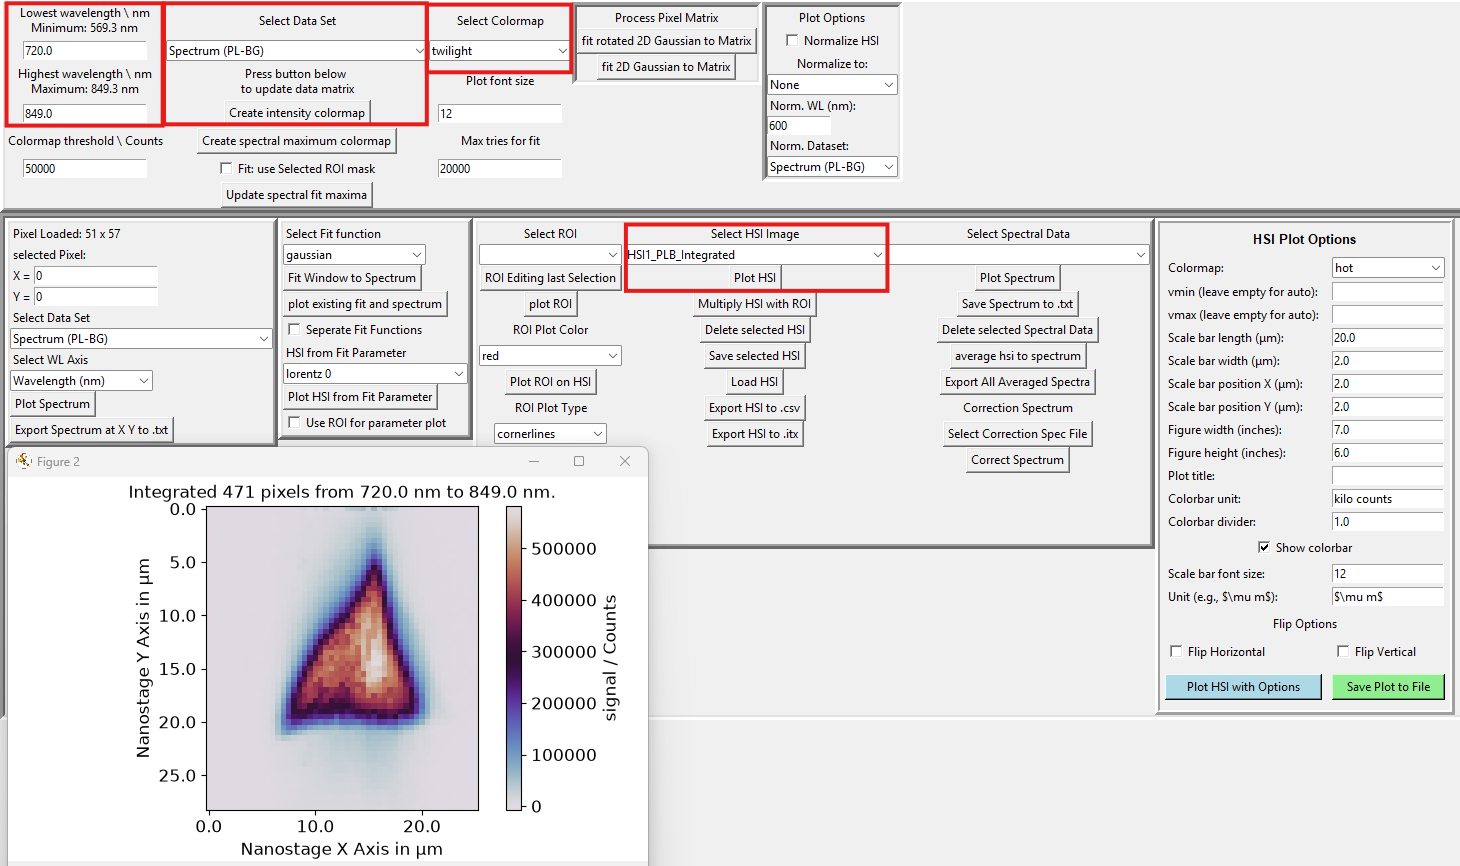
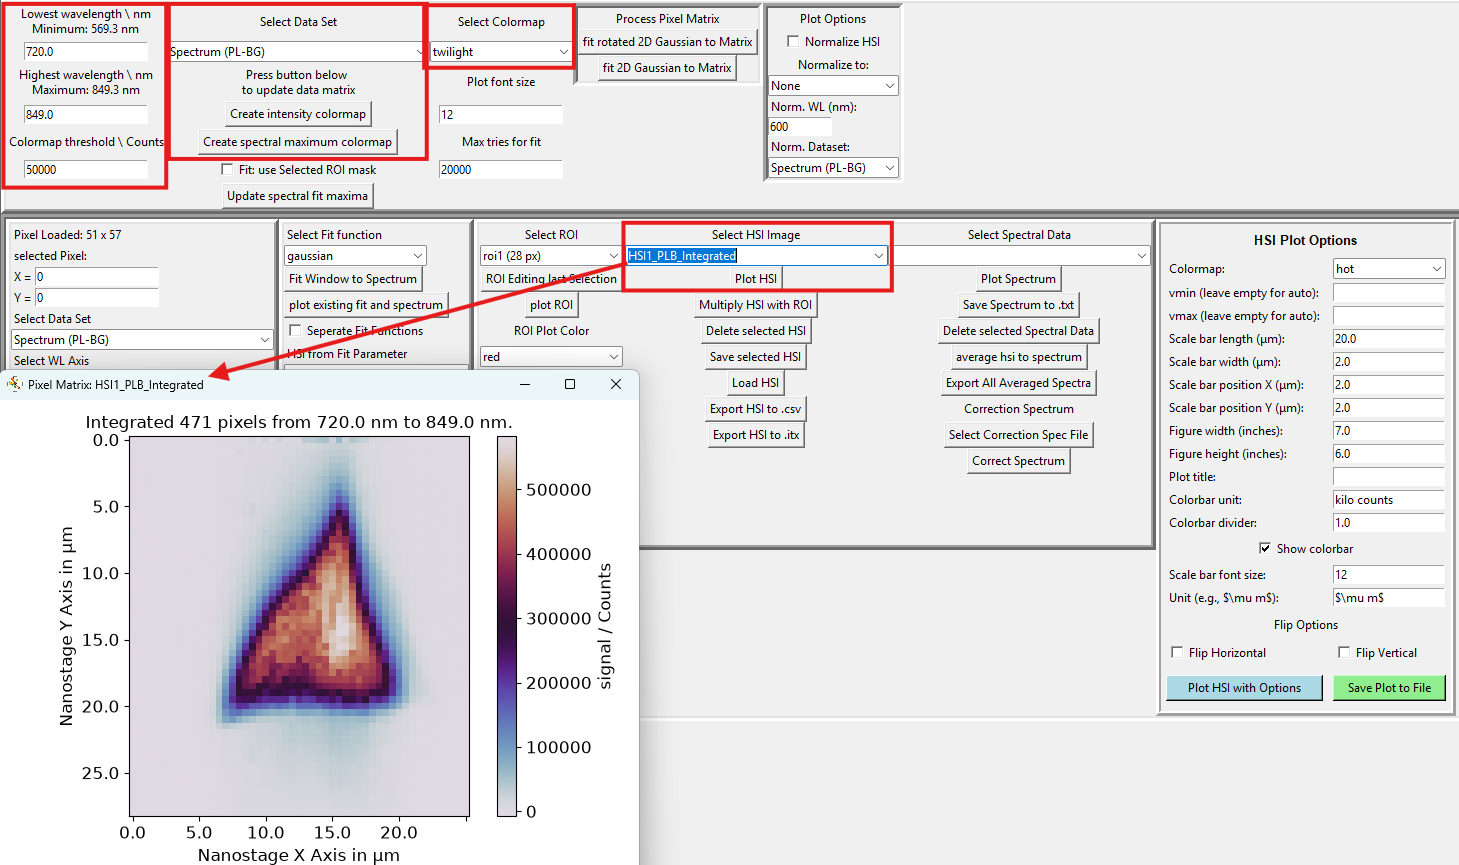
todo: finish documentation of Hyperspectra usage and add new images to the documentation

Changed region(s): [[0.0, 0.0, 1.0, 1.0]]

diff --git a/documentation/Software_Usage/Hyperspectra_documentation.md b/documentation/Software_Usage/Hyperspectra_documentation.md
@@ -21,14 +21,32 @@ The notebook is designed to be user-friendly and intuitive, allowing users to ea
 - "Lowest Wavelength" and "Highest Wavelength" are the minimum and maximum wavelengths of the hyperspectral data, respectively. These values are used to define the range of wavelengths that will be displayed in the hyperspectral image. It defines the limits for the integraton and for the Fit of the spectra. Each HSI gets the start and end wavelength entered on the creation into its metadata. 
 - "Colormap threshold \ Counts" uses the integration thresholds as fit thresholds. If a pixel-wise fit (all fits are pixel-wise) is below the threshold, no fit is carried out and the pixel obtains a np.nan value. Pixels with np.nan values are displayed white in the HSI. 
 
-
-![Create HSI column](ProjectImages/create_HSI_column.png)
+![Create HSI column](ProjectImages/Create_HSI_column.png)
 
 - "Select Data Set": The user can select the data set to be used for creating the hyperspectral image (HSI). The available data sets are listed in a dropdown menu, and the user can choose the desired data set for analysis. Available datasets are: the raw data, background, background subtracted data (default) and the derivatives calculated in the loading tab. 
 - "Create intensity colormap" creates a HSI by integration of the selected Data Set from Lowest Wavelength to Highest Wavelength. All available HSIs are listed in the "Select HSI Image combobox". 
 - "Create spectral maximum colormap" use the "Select Fit function" to fit each spectrum (respecting the Colormap threshold) and create a HSI of the spectral shift usually in nm. If the "Fit: use Selected ROI mask is True, the fit is only carried out for pixels within the selected ROI mask. If the "Fit: use Selected ROI mask is False, the fit is carried out for all pixels in the HSI. The resulting HSI will contain the fitted parameter values for each pixel, which can be used for further analysis or visualization. 
 Note: this function does only update the fitparameters and displays them afterwards. If a Pixel is excluded by the ROI but a fitparameter exists (is not np.nan), it will be displayed in the HSI. If a Pixel is excluded by the ROI and no fitparameter exists (is np.nan), it will be displayed white in the HSI. To focus on the required area, multiply a ROI mask with the HSI to display only the area of interest. 
 - "Update spectral fit maxima" does the same as Create spectral maximum colormap but does not carry out new fits. Just display the existing fitparameters as a HSI. 
+
+![Colormap, Fontisize, Fittires](ProjectImages/colormap_entries.png)
+
+- "Select Colormap" select the matplotlib colormpa (https://matplotlib.org/stable/tutorials/colors/colormaps.html) to be used for the HSI.
+- "Plot font size" select the fontsize for the HSI.
+- "Max tires for fit" select the maximum number of tires for the fit. If the fit does not converge, the number of tires can be increased.
+
+![Normalize HSI](ProjectImages/normalize_HSI_options.png)
+
+- set the "Normalize HSI" checkbox to normalize the HSI. The normalization is done by dividing each pixel value by the maximum pixel value in the HSI. This can be useful for visualizing the relative intensity of the pixels in the HSI, especially when comparing different HSIs with different intensity ranges. Important: use "Create intensity colormap". The created HSI will then apply the selected Normalization on top of its data, so the normalization is not applied to the raw data but to the created HSI. 
+
+Normalization methods: 
+| Method | What it does | Formula per pixel | Params |
+|---|---|---|---|
+| `none` | No normalization — baseline/pass-through | `1.0` | — |
+| `integrated_counts` | Normalizes by total signal integrated over a wavelength window (corrects for overall intensity/exposure differences) | `1 / Σ(data[wl_start:wl_end])` | `wl_start`, `wl_end`, `data_key` |
+| `max_intensity` | Normalizes by the peak signal within a wavelength window (corrects for peak-height differences, e.g. across a map with varying PL intensity) | `1 / max(data[wl_start:wl_end])` | `wl_start`, `wl_end`, `data_key` |
+| `counts_at_wavelength` | Normalizes by the signal at one specific wavelength (e.g. reference/calibration line) | `1 / data[closest_index_to(wavelength)]` | `wavelength`, `data_key` |
+| `normalize_intern` | Special case: min-max normalization applied to the final pixel map (post-hoc, not per-spectrum) | `(pixel - min) / (max - min)` across the whole map | — |
 
 # Tasks and Functionalities
 1. Create a HSI by integration: 
